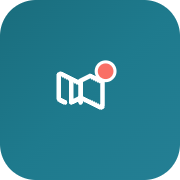
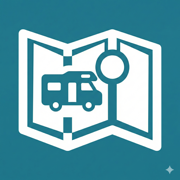
Add visual identity overhaul with AI-generated illustrations
Replace generic SVG icons with custom Gemini-generated illustrations
across the entire site. Adds branded logo to Header and Footer,
hero background images to all 6 content pages (About, Help, Support,
Guides, Feedback, Settings), a playful 404 illustration, onboarding
welcome graphic, and empty planner state watermark. Optimized all
images (hero JPEGs ~120KB each, total assets ~2.8MB). Updated favicon
and apple-touch-icon with new brand artwork.

diff --git a/src/pages/NotFoundPage.tsx b/src/pages/NotFoundPage.tsx
@@ -14,20 +14,8 @@ const NotFoundPage: React.FC = () => {
       <div className="mt-8 sm:mx-auto sm:w-full sm:max-w-md">
         <div className="bg-white py-8 px-4 shadow sm:rounded-lg sm:px-10 text-center">
           {/* 404 Illustration */}
-          <div className="mx-auto w-24 h-24 bg-neutral-100 rounded-full flex items-center justify-center mb-6">
-            <svg
-              className="w-12 h-12 text-neutral-400"
-              fill="none"
-              stroke="currentColor"
-              viewBox="0 0 24 24"
-            >
-              <path
-                strokeLinecap="round"
-                strokeLinejoin="round"
-                strokeWidth={1}
-                d="M9.172 16.172a4 4 0 015.656 0M9 12h6m-6-4h6m2 5.291A7.962 7.962 0 0112 20a7.962 7.962 0 01-5-1.709m10-11.582A7.962 7.962 0 0012 4a7.962 7.962 0 00-5 1.709m0 11.582V16.29"
-              />
-            </svg>
+          <div className="mx-auto w-48 h-48 mb-6">
+            <img src="/images/404-lost.png" alt="Lost campervan at a crossroads" className="w-full h-full object-contain" />
           </div>
 
           {/* Error Message */}

diff --git a/src/components/layout/Header.tsx b/src/components/layout/Header.tsx
@@ -84,19 +84,7 @@ const Header: React.FC = () => {
               )}
 
               <Link to="/" className="flex items-center space-x-3">
-                <div className="w-8 h-8 bg-gradient-to-br from-primary-500 to-primary-700 rounded-full flex items-center justify-center shadow-sm">
-                  <svg
-                    className="w-5 h-5 text-white"
-                    fill="currentColor"
-                    viewBox="0 0 20 20"
-                  >
-                    <path
-                      fillRule="evenodd"
-                      d="M9 20l-5.447-2.724A1 1 0 013 16.382V5.618a1 1 0 011.447-.894L9 7m0 13l6-3m-6 3V7m6 10l4.553 2.276A1 1 0 0021 18.382V7.618a1 1 0 00-1.447-.894L15 4m0 13V4m0 0L9 7"
-                      clipRule="evenodd"
-                    />
-                  </svg>
-                </div>
+                <img src="/logo.png" alt="European Camper Planner" className="w-8 h-8" />
                 <div className="hidden sm:block">
                   <h1 className="text-lg lg:text-xl font-display font-extrabold text-neutral-900">
                     European Camper Planner

diff --git a/src/components/layout/Footer.tsx b/src/components/layout/Footer.tsx
@@ -18,15 +18,7 @@ const Footer: React.FC = () => {
           {/* Brand */}
           <div className="sm:col-span-2 lg:col-span-1">
             <div className="flex items-center gap-2 mb-3">
-              <div className="w-7 h-7 bg-gradient-to-br from-primary-400 to-primary-600 rounded-full flex items-center justify-center">
-                <svg className="w-4 h-4 text-white" fill="currentColor" viewBox="0 0 20 20">
-                  <path
-                    fillRule="evenodd"
-                    d="M9 20l-5.447-2.724A1 1 0 013 16.382V5.618a1 1 0 011.447-.894L9 7m0 13l6-3m-6 3V7m6 10l4.553 2.276A1 1 0 0021 18.382V7.618a1 1 0 00-1.447-.894L15 4m0 13V4m0 0L9 7"
-                    clipRule="evenodd"
-                  />
-                </svg>
-              </div>
+              <img src="/logo.png" alt="European Camper Planner" className="w-7 h-7" />
               <span className="text-white font-display font-semibold text-sm">
                 European Camper Planner
               </span>

diff --git a/src/pages/HelpPage.tsx b/src/pages/HelpPage.tsx
@@ -105,8 +105,9 @@ const HelpPage: React.FC = () => {
   return (
     <div className="min-h-screen bg-neutral-50 animate-fade-in">
       {/* Hero Section */}
-      <div className="bg-gradient-to-br from-primary-700 to-primary-900 text-white">
-        <div className="max-w-5xl mx-auto px-4 sm:px-6 lg:px-8 py-16 sm:py-20">
+      <div className="relative overflow-hidden bg-gradient-to-br from-primary-700 to-primary-900 text-white">
+        <img src="/images/hero-help.jpg" alt="" className="absolute inset-0 w-full h-full object-cover opacity-20 mix-blend-overlay" loading="lazy" />
+        <div className="relative max-w-5xl mx-auto px-4 sm:px-6 lg:px-8 py-16 sm:py-20">
           <div className="text-center">
             <div className="inline-flex items-center gap-2 px-4 py-1.5 bg-white/15 rounded-full text-sm font-medium mb-6 backdrop-blur-sm">
               <HelpCircle className="w-4 h-4" />

diff --git a/src/pages/SettingsPage.tsx b/src/pages/SettingsPage.tsx
@@ -68,8 +68,9 @@ const SettingsPage: React.FC = () => {
   return (
     <div className="min-h-screen bg-neutral-50 animate-fade-in">
       {/* Hero Section */}
-      <div className="bg-gradient-to-br from-primary-700 to-primary-900 text-white">
-        <div className="max-w-3xl mx-auto px-4 sm:px-6 lg:px-8 py-10 sm:py-12">
+      <div className="relative overflow-hidden bg-gradient-to-br from-primary-700 to-primary-900 text-white">
+        <img src="/images/hero-settings.jpg" alt="" className="absolute inset-0 w-full h-full object-cover opacity-20 mix-blend-overlay" loading="lazy" />
+        <div className="relative max-w-3xl mx-auto px-4 sm:px-6 lg:px-8 py-10 sm:py-12">
           <div className="flex items-center gap-4">
             <Link to="/" className="p-2 rounded-lg text-white/60 hover:text-white hover:bg-white/10 transition-colors">
               <ArrowLeft className="w-5 h-5" />

diff --git a/src/pages/AboutPage.tsx b/src/pages/AboutPage.tsx
@@ -50,8 +50,9 @@ const AboutPage: React.FC = () => {
   return (
     <div className="min-h-screen bg-neutral-50 animate-fade-in">
       {/* Hero Section */}
-      <div className="bg-gradient-to-br from-primary-600 to-primary-800 text-white">
-        <div className="max-w-5xl mx-auto px-4 sm:px-6 lg:px-8 py-16 sm:py-20">
+      <div className="relative overflow-hidden bg-gradient-to-br from-primary-600 to-primary-800 text-white">
+        <img src="/images/hero-about.jpg" alt="" className="absolute inset-0 w-full h-full object-cover opacity-20 mix-blend-overlay" loading="lazy" />
+        <div className="relative max-w-5xl mx-auto px-4 sm:px-6 lg:px-8 py-16 sm:py-20">
           <div className="text-center">
             <div className="inline-flex items-center gap-2 px-4 py-1.5 bg-white/15 rounded-full text-sm font-medium mb-6 backdrop-blur-sm">
               <MapPin className="w-4 h-4" />

diff --git a/src/pages/FeedbackPage.tsx b/src/pages/FeedbackPage.tsx
@@ -34,8 +34,9 @@ const FeedbackPage: React.FC = () => {
   return (
     <div className="min-h-screen bg-neutral-50 animate-fade-in">
       {/* Hero */}
-      <div className="bg-gradient-to-br from-primary-600 to-primary-800 text-white">
-        <div className="max-w-4xl mx-auto px-4 sm:px-6 lg:px-8 py-12 sm:py-16">
+      <div className="relative overflow-hidden bg-gradient-to-br from-primary-600 to-primary-800 text-white">
+        <img src="/images/hero-feedback.jpg" alt="" className="absolute inset-0 w-full h-full object-cover opacity-20 mix-blend-overlay" loading="lazy" />
+        <div className="relative max-w-4xl mx-auto px-4 sm:px-6 lg:px-8 py-12 sm:py-16">
           <Link to="/" className="inline-flex items-center gap-1 text-primary-200 hover:text-white text-sm mb-4 transition-colors">
             <ChevronLeft className="w-4 h-4" />
             Back to planner

diff --git a/src/pages/SupportPage.tsx b/src/pages/SupportPage.tsx
@@ -36,8 +36,9 @@ const SupportPage: React.FC = () => {
   return (
     <div className="min-h-screen bg-neutral-50 animate-fade-in">
       {/* Hero */}
-      <div className="bg-gradient-to-br from-primary-600 to-primary-800 text-white">
-        <div className="max-w-4xl mx-auto px-4 sm:px-6 lg:px-8 py-12 sm:py-16">
+      <div className="relative overflow-hidden bg-gradient-to-br from-primary-600 to-primary-800 text-white">
+        <img src="/images/hero-support.jpg" alt="" className="absolute inset-0 w-full h-full object-cover opacity-20 mix-blend-overlay" loading="lazy" />
+        <div className="relative max-w-4xl mx-auto px-4 sm:px-6 lg:px-8 py-12 sm:py-16">
           <Link to="/" className="inline-flex items-center gap-1 text-primary-200 hover:text-white text-sm mb-4 transition-colors">
             <ChevronLeft className="w-4 h-4" />
             Back to planner

diff --git a/src/pages/BlogListPage.tsx b/src/pages/BlogListPage.tsx
@@ -33,8 +33,9 @@ const BlogListPage: React.FC = () => {
       />
 
       {/* Hero */}
-      <div className="bg-gradient-to-br from-primary-600 via-primary-700 to-primary-800 text-white">
-        <div className="max-w-6xl mx-auto px-4 sm:px-6 lg:px-8 py-12 sm:py-16">
+      <div className="relative overflow-hidden bg-gradient-to-br from-primary-600 via-primary-700 to-primary-800 text-white">
+        <img src="/images/hero-guides.jpg" alt="" className="absolute inset-0 w-full h-full object-cover opacity-20 mix-blend-overlay" loading="lazy" />
+        <div className="relative max-w-6xl mx-auto px-4 sm:px-6 lg:px-8 py-12 sm:py-16">
           <div className="flex items-center gap-3 mb-4">
             <BookOpen className="w-8 h-8 text-primary-200" />
             <span className="text-primary-200 font-display font-semibold text-sm uppercase tracking-wider">

diff --git a/src/pages/PlannerPage.tsx b/src/pages/PlannerPage.tsx
@@ -86,6 +86,13 @@ const PlannerPage: React.FC = () => {
       <div className="flex-1 relative">
         <MapContainer />
 
+        {/* Empty state illustration — subtle hint when no waypoints */}
+        {!hasWaypoints && !showOnboarding && !wizardOpen && (
+          <div className="absolute top-1/2 left-1/2 -translate-x-1/2 -translate-y-1/2 pointer-events-none z-[400] opacity-30">
+            <img src="/images/empty-state.png" alt="" className="w-64 sm:w-80" />
+          </div>
+        )}
+
         {/* "Plan a Trip" floating button — always visible, prominent when no waypoints */}
         {!wizardOpen && !showOnboarding && (
           <button

diff --git a/src/components/onboarding/TourTooltip.tsx b/src/components/onboarding/TourTooltip.tsx
@@ -117,11 +117,9 @@ const TourTooltip: React.FC<TourTooltipProps> = ({
       {/* Welcome variant: logo + feature list */}
       {isWelcome ? (
         <>
-          {/* Logo placeholder */}
+          {/* Logo */}
           <div className="flex justify-center mb-3">
-            <div className="w-14 h-14 bg-primary-100 rounded-lg flex items-center justify-center">
-              <Truck className="w-7 h-7 text-primary-600" />
-            </div>
+            <img src="/images/onboarding-welcome.png" alt="European Camper Planner" className="w-14 h-14 rounded-lg object-cover" />
           </div>
 
           {/* Headline */}

diff --git a/index.html b/index.html
@@ -2,6 +2,7 @@
 <html lang="en">
   <head>
     <meta charset="UTF-8" />
+    <link rel="icon" type="image/png" href="/favicon.png" />
     <link rel="icon" type="image/svg+xml" href="/favicon.svg" />
     <link rel="apple-touch-icon" href="/apple-touch-icon.png" />
     <meta name="viewport" content="width=device-width, initial-scale=1.0" />
